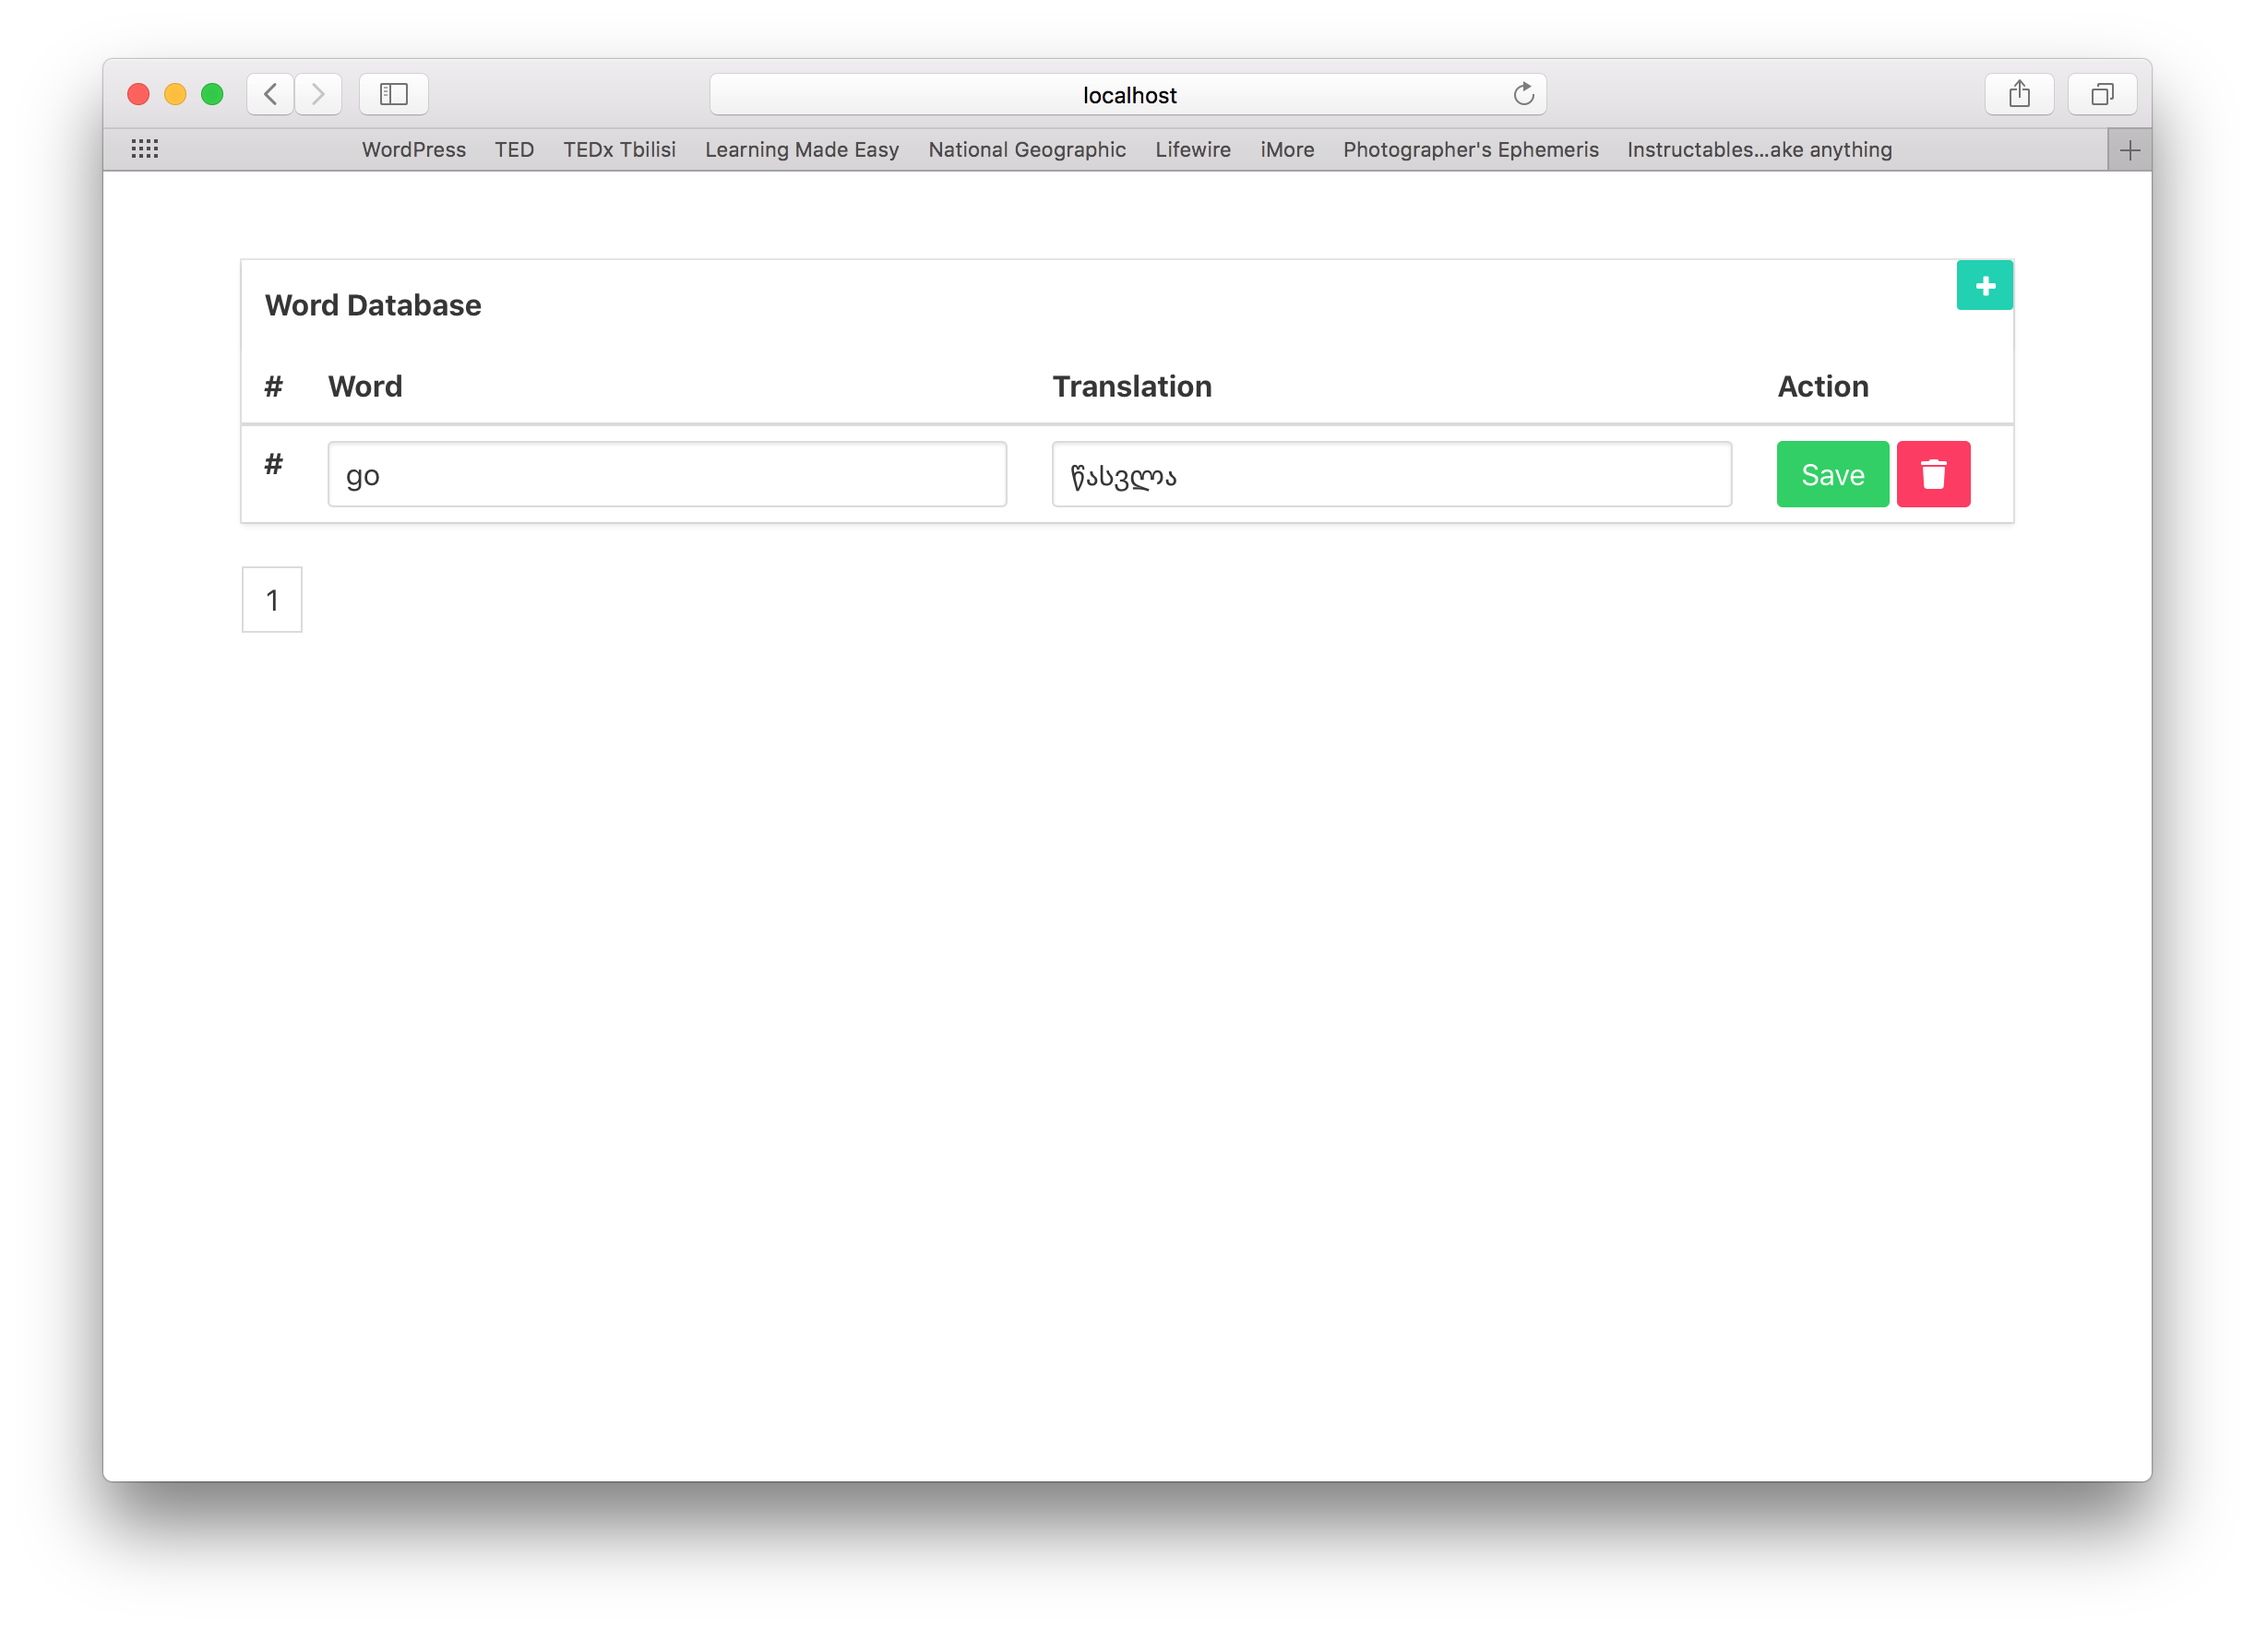
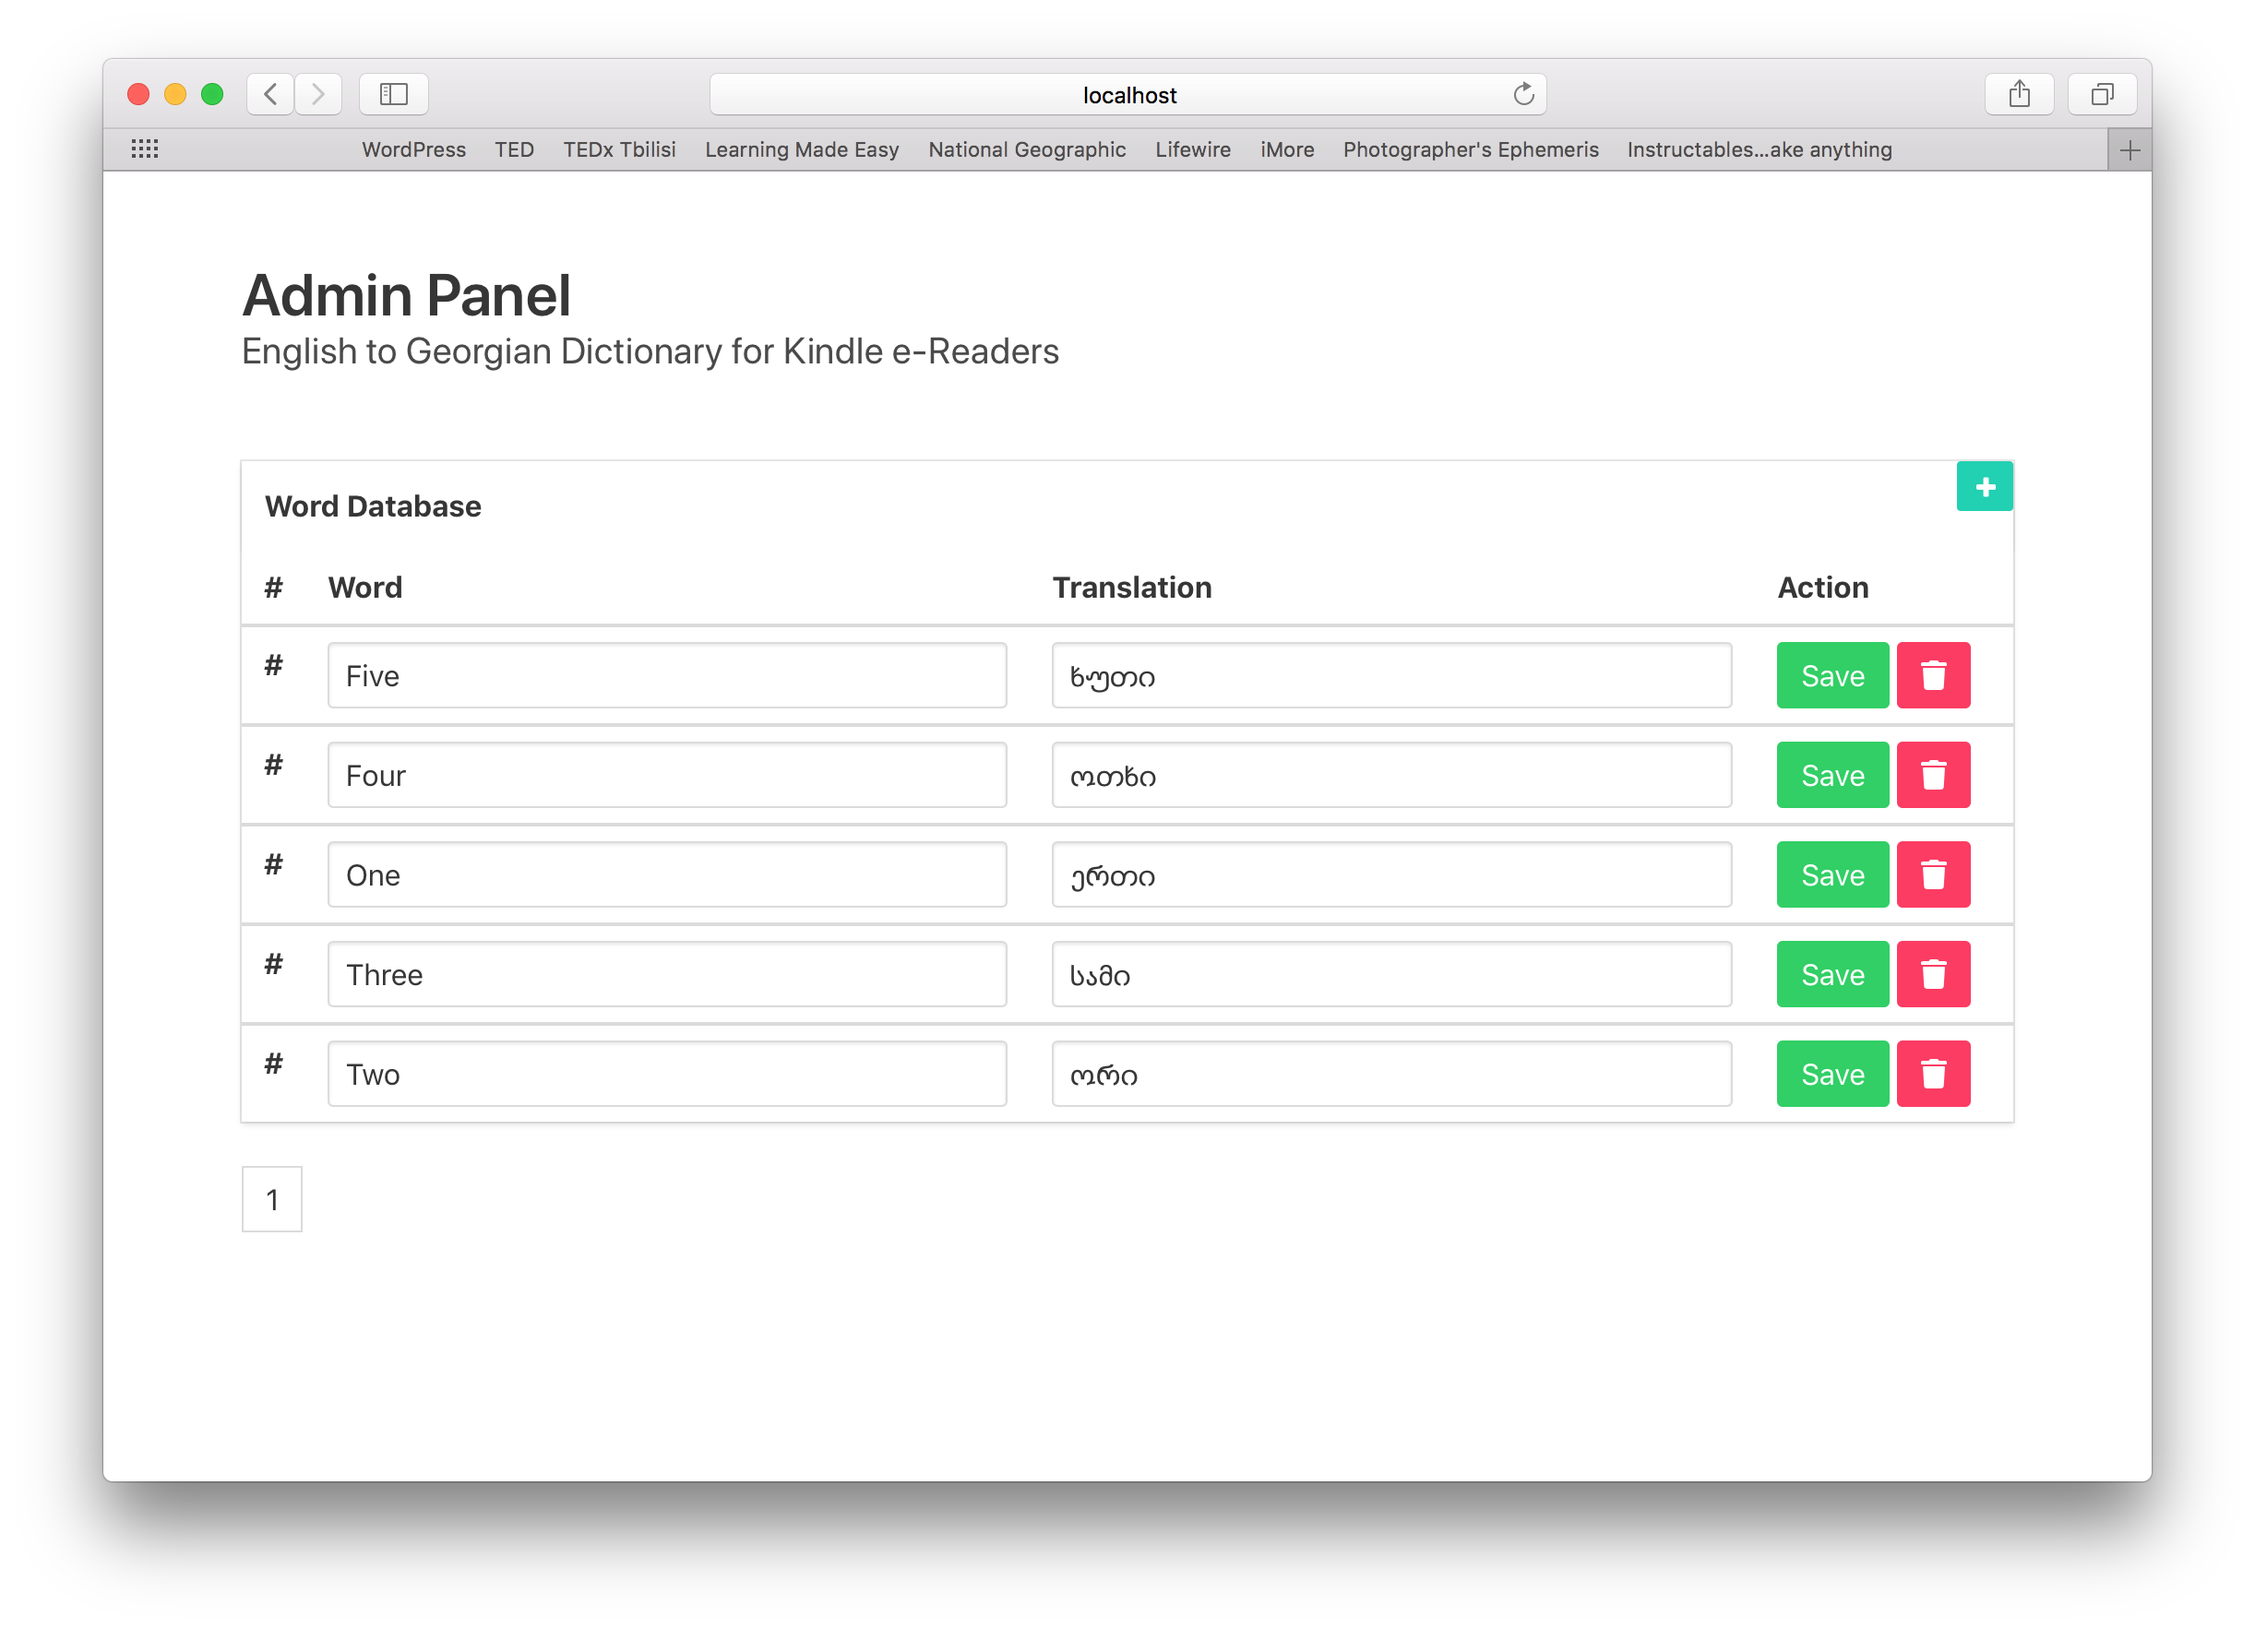
Fixed deps

diff --git a/admin/index.html b/admin/index.html
@@ -8,6 +8,18 @@
     <script defer src="https://use.fontawesome.com/releases/v5.0.0/js/all.js"></script>
 </header>
 <body>
+    <section class="hero">
+        <div class="hero-body" style="padding-bottom: 0">
+            <div class="container">
+            <h1 class="title">
+                Admin Panel
+            </h1>
+            <h2 class="subtitle">
+                English to Georgian Dictionary for Kindle e-Readers
+            </h2>
+            </div>
+        </div>
+    </section>
     <section class="section" id="app">
         <div class="container">
             <div class="card">
